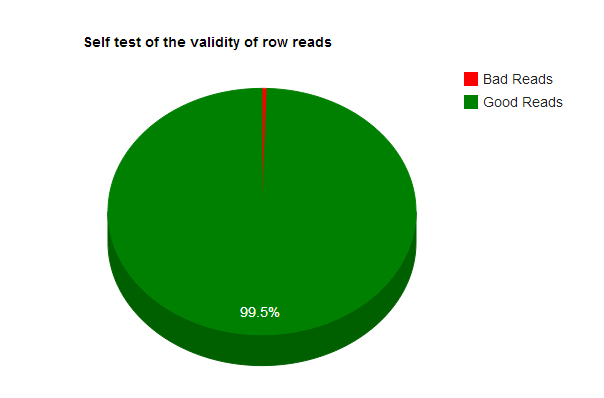
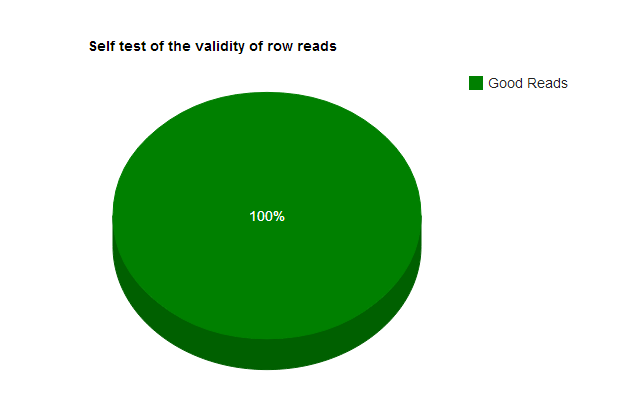
Fixed bad row reads
Now reads 100% correct

diff --git a/commonViolations.htm b/commonViolations.htm
@@ -7,12 +7,12 @@
       function drawChart() {
         var data = google.visualization.arrayToDataTable([
           ['Label', 'Data'],
-          ['33. FOOD AND NON-FOOD CONTACT EQUIPMENT UTENSILS CLEAN, FREE OF ABRASIVE',   17439  ],
-          ['34. FLOORS: CONSTRUCTED PER CODE, CLEANED, GOOD REPAIR, COVERING INSTALL',   22775  ],
-          ['41. PREMISES MAINTAINED FREE OF LITTER, UNNECESSARY ARTICLES, CLEANING  ',   10445  ],
-          ['32. FOOD AND NON-FOOD CONTACT SURFACES PROPERLY DESIGNED, CONSTRUCTED AN',   16086  ],
-          ['35. WALLS, CEILINGS, ATTACHED EQUIPMENT CONSTRUCTED PER CODE: GOOD REPAI',   18483  ],
-          ['38. VENTILATION: ROOMS AND EQUIPMENT VENTED AS REQUIRED: PLUMBING: INSTA',   15966  ]
+          ['33. FOOD AND NON-FOOD CONTACT EQUIPMENT UTENSILS CLEAN, FREE OF ABRASIVE',   17473  ],
+          ['34. FLOORS: CONSTRUCTED PER CODE, CLEANED, GOOD REPAIR, COVERING INSTALL',   22816  ],
+          ['41. PREMISES MAINTAINED FREE OF LITTER, UNNECESSARY ARTICLES, CLEANING  ',   10462  ],
+          ['32. FOOD AND NON-FOOD CONTACT SURFACES PROPERLY DESIGNED, CONSTRUCTED AN',   16108  ],
+          ['35. WALLS, CEILINGS, ATTACHED EQUIPMENT CONSTRUCTED PER CODE: GOOD REPAI',   18522  ],
+          ['38. VENTILATION: ROOMS AND EQUIPMENT VENTED AS REQUIRED: PLUMBING: INSTA',   16008  ]
         ]);
 
         var options = {

diff --git a/inspectionResultsTest.htm b/inspectionResultsTest.htm
@@ -7,8 +7,9 @@
       function drawChart() {
         var data = google.visualization.arrayToDataTable([
           ['Label', 'Data'],
-          ['Bad Reads',   956  ],
-          ['Good Reads',   180321  ]
+          ['FAIL',   11976  ],
+          ['OUT OF BUSINESS',   4402  ],
+          ['PASS',   33159  ]
         ]);
 
         var options = {

diff --git a/RowRead.htm b/RowRead.htm
@@ -7,8 +7,8 @@
       function drawChart() {
         var data = google.visualization.arrayToDataTable([
           ['Label', 'Data'],
-          ['Bad Reads',   956  ],
-          ['Good Reads',   180321  ]
+          ['Bad Reads',   0  ],
+          ['Good Reads',   181277  ]
         ]);
 
         var options = {

diff --git a/test_one_tester.py b/test_one_tester.py
@@ -17,11 +17,12 @@ class oneFuntionTester(unittest.TestCase):
             if rowType == 'singleline': # try to decode the line
                 if not singlelineToDict(row):
                     rowFalures += 1
+                    #print row[:40], '...' , row[-40:-2] , rowsRead #great diagnostic data
             row = csvfile.readline()
         # if it fails to encode increment failure counter 
         # make a chart of the successes and failures 
         testCase = dict()
-        testCase["control open chart"] = True
+        testCase["control open chart"] = False
         testCase["control chart title"] = 'RowRead.htm'
         testCase["control chart options"] = """
         var options = {

diff --git a/fooddata.py b/fooddata.py
@@ -281,9 +281,9 @@ def relativeRisk(foodDict):
 
 def typeOfLine(row):
     """this csv has many types of rows thrown together.  This fuction returns the type of row."""
-    keyRE = '\d+' 
+    keyRE = '[\d]+,' 
     # re to match 'Inspection ID,DBA Name,AKA Name,License #,Facility Type,Risk,Address,City,State,Zip,Inspection Date,Inspection Type,Results,Violations,Latitude,Longitude,Location' 
-    if re.match(keyRE, row.split(',')[0]) :
+    if re.match(keyRE, row):
         return 'singleline'
     keyRE = r' | ' # re to match '| list of violations'
     if keyRE == row[:3] or row[0] == '#':
